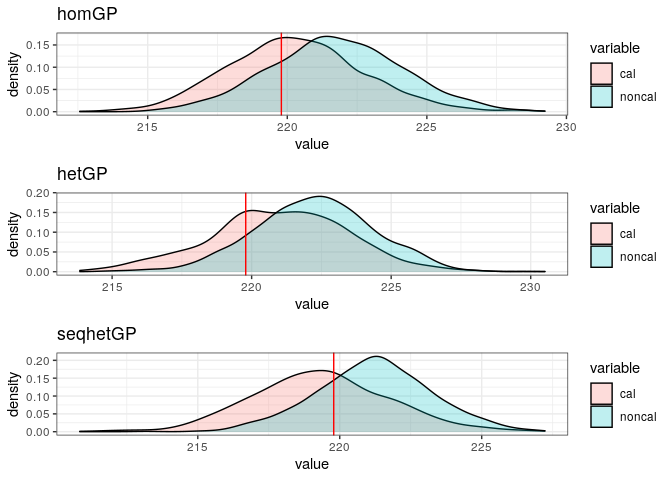
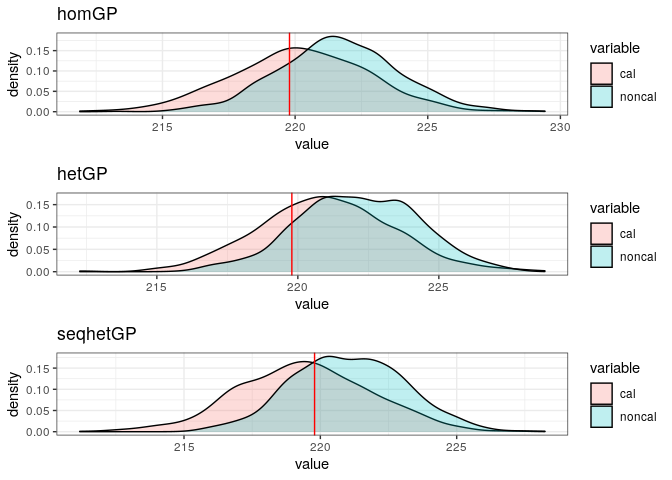
harmonization of scales in calibration plots

diff --git a/OceanCalibration.md b/OceanCalibration.md
@@ -138,10 +138,22 @@ names(dfcalhom) = c("u1","u2","s2f","s2b")
 dfcalhom[,1:2] = dfcalhom[,1:2] * 900 +100
 dfcalhom[,3] = exp(dfcalhom[,3]) * Yv
 dfcalhom[,4] = exp(dfcalhom[,4]) * Yv
-hom1 = ggplot(dfcalhom,aes(x=u1,stat(density)))+ xlab(expression(K[x])) + geom_density() + theme_bw() + xlim(50,1000) + geom_vline(aes(xintercept=700),color="red")
-hom2 = ggplot(dfcalhom,aes(x=u2,stat(density))) + xlab(expression(K[y])) + geom_density() + theme_bw() +xlim(50,1000)  + geom_vline(aes(xintercept=200),color="red")
-hom3 = ggplot(dfcalhom,aes(x=s2f,stat(density)))+ xlab(expression(sigma[epsilon]^2))  + geom_density() + theme_bw() + xlim(0,7) + geom_vline(aes(xintercept=4),color="red")
-hom4 = ggplot(dfcalhom,aes(x=s2b,stat(density)))+ xlab(expression(sigma[MD]^2)) + geom_density() + theme_bw() + xlim(0,3) +geom_vline(aes(xintercept=Yv*.02),color="red")
+hom1 = ggplot(dfcalhom,aes(x=u1,stat(density)))+ xlab(expression(K[x])) + geom_density() + theme_bw() + xlim(50,1050) + ylim(0,2e-3) + geom_vline(aes(xintercept=700),color="red")+ scale_x_continuous(breaks=c(100,500,1000),limits = c(50,1050))
+```
+
+    ## Scale for 'x' is already present. Adding another scale for 'x', which will
+    ## replace the existing scale.
+
+``` r
+hom2 = ggplot(dfcalhom,aes(x=u2,stat(density))) + xlab(expression(K[y])) + geom_density() + theme_bw() +xlim(50,1050) + ylim(0,1.2e-2) + geom_vline(aes(xintercept=200),color="red")+scale_x_continuous(breaks=c(100,500,1000),limits = c(50,1050))
+```
+
+    ## Scale for 'x' is already present. Adding another scale for 'x', which will
+    ## replace the existing scale.
+
+``` r
+hom3 = ggplot(dfcalhom,aes(x=s2f,stat(density)))+ xlab(expression(sigma[epsilon]^2))  + geom_density() + theme_bw() + xlim(0,7) + ylim(0,.6) + geom_vline(aes(xintercept=4),color="red")
+hom4 = ggplot(dfcalhom,aes(x=s2b,stat(density)))+ xlab(expression(sigma[MD]^2)) + geom_density() + theme_bw() + xlim(0,3)+ylim(0,.6)  +geom_vline(aes(xintercept=Yv*.02),color="red")
 ```
 
 Calibration with hetGP
@@ -163,10 +175,22 @@ names(dfcalhet) = c("u1","u2","s2f","s2b")
 dfcalhet[,1:2] = dfcalhet[,1:2] * 900 +100
 dfcalhet[,3] = exp(dfcalhet[,3]) * Yv
 dfcalhet[,4] = exp(dfcalhet[,4]) * Yv
-het1 = ggplot(dfcalhet,aes(x=u1,stat(density))) + xlab(expression(K[x]))+ geom_density() + theme_bw() + xlim(50,1000) + geom_vline(aes(xintercept=700),color="red")
-het2 = ggplot(dfcalhet,aes(x=u2,stat(density)))+ xlab(expression(K[y])) + geom_density() + theme_bw() +xlim(50,1000)  + geom_vline(aes(xintercept=200),color="red")
-het3 = ggplot(dfcalhet,aes(x=s2f,stat(density)))+ xlab(expression(sigma[epsilon]^2)) + geom_density() + theme_bw() + xlim(0,7) + geom_vline(aes(xintercept=4),color="red")
-het4 = ggplot(dfcalhet,aes(x=s2b,stat(density))) + xlab(expression(sigma[MD]^2)) + geom_density() + theme_bw() + xlim(0,3) +geom_vline(aes(xintercept=Yv*.02),color="red")
+het1 = ggplot(dfcalhet,aes(x=u1,stat(density))) + xlab(expression(K[x]))+ geom_density() + theme_bw() + xlim(50,1050) + ylim(0,2e-3) + geom_vline(aes(xintercept=700),color="red")+scale_x_continuous(breaks=c(100,500,1000),limits = c(50,1050))
+```
+
+    ## Scale for 'x' is already present. Adding another scale for 'x', which will
+    ## replace the existing scale.
+
+``` r
+het2 = ggplot(dfcalhet,aes(x=u2,stat(density)))+ xlab(expression(K[y])) + geom_density() + theme_bw() +xlim(50,1050) + ylim(0,1.2e-2) + geom_vline(aes(xintercept=200),color="red")+scale_x_continuous(breaks=c(100,500,1000),limits = c(50,1050))
+```
+
+    ## Scale for 'x' is already present. Adding another scale for 'x', which will
+    ## replace the existing scale.
+
+``` r
+het3 = ggplot(dfcalhet,aes(x=s2f,stat(density)))+ xlab(expression(sigma[epsilon]^2)) + geom_density() + theme_bw() + xlim(0,7) +ylim(0,.6) + geom_vline(aes(xintercept=4),color="red")
+het4 = ggplot(dfcalhet,aes(x=s2b,stat(density))) + xlab(expression(sigma[MD]^2)) + geom_density() + theme_bw() + xlim(0,3) +ylim(0,.6) +geom_vline(aes(xintercept=Yv*.02),color="red")
 ```
 
 Calibration with seqhetGP
@@ -188,10 +212,22 @@ names(dfcalseqhet) = c("u1","u2","s2f","s2b")
 dfcalseqhet[,1:2] = dfcalseqhet[,1:2] * 900 +100
 dfcalseqhet[,3] = exp(dfcalseqhet[,3]) * Yv
 dfcalseqhet[,4] = exp(dfcalseqhet[,4]) * Yv
-seqhet1 = ggplot(dfcalseqhet,aes(x=u1,stat(density))) + xlab(expression(K[x]))+ geom_density() + theme_bw() + xlim(50,1000) + geom_vline(aes(xintercept=700),color="red")
-seqhet2 = ggplot(dfcalseqhet,aes(x=u2,stat(density)))+ xlab(expression(K[y])) + geom_density() + theme_bw() +xlim(50,1000)  + geom_vline(aes(xintercept=200),color="red")
-seqhet3 = ggplot(dfcalseqhet,aes(x=s2f,stat(density))) + xlab(expression(sigma[epsilon]^2))+ geom_density() + theme_bw() + xlim(0,7) + geom_vline(aes(xintercept=4),color="red")
-seqhet4 = ggplot(dfcalseqhet,aes(x=s2b,stat(density)))+ xlab(expression(sigma[MD]^2))  + geom_density() + theme_bw() + xlim(0,3) +geom_vline(aes(xintercept=Yv*.02),color="red")
+seqhet1 = ggplot(dfcalseqhet,aes(x=u1,stat(density))) + xlab(expression(K[x]))+ geom_density() + theme_bw() + xlim(50,1050)+ ylim(0,2e-3) + geom_vline(aes(xintercept=700),color="red")+scale_x_continuous(breaks=c(100,500,1000),limits = c(50,1050))
+```
+
+    ## Scale for 'x' is already present. Adding another scale for 'x', which will
+    ## replace the existing scale.
+
+``` r
+seqhet2 = ggplot(dfcalseqhet,aes(x=u2,stat(density)))+ xlab(expression(K[y])) + geom_density() + theme_bw() +xlim(50,1050)+ ylim(0,1.2e-2)  + geom_vline(aes(xintercept=200),color="red")+scale_x_continuous(breaks=c(100,500,1000),limits = c(50,1050))
+```
+
+    ## Scale for 'x' is already present. Adding another scale for 'x', which will
+    ## replace the existing scale.
+
+``` r
+seqhet3 = ggplot(dfcalseqhet,aes(x=s2f,stat(density))) + xlab(expression(sigma[epsilon]^2))+ geom_density() + theme_bw() + xlim(0,7) + ylim(0,.6) + geom_vline(aes(xintercept=4),color="red")
+seqhet4 = ggplot(dfcalseqhet,aes(x=s2b,stat(density)))+ xlab(expression(sigma[MD]^2))  + geom_density() + theme_bw() + xlim(0,3) +ylim(0,.6) +geom_vline(aes(xintercept=Yv*.02),color="red")
 ```
 
 ``` r
@@ -548,9 +584,9 @@ rbind(c(RMSEhomnoncalL2,RMSEhomnoncalguess,RMSEhomnoncal,RMSEhomcal),
 ```
 
     ##          [,1]     [,2]     [,3]     [,4]
-    ## [1,] 9.160076 9.156535 9.221905 9.142948
-    ## [2,] 9.162898 9.158955 9.202503 9.152914
-    ## [3,] 9.153980 9.151235 9.220196 9.157108
+    ## [1,] 9.163378 9.156696 9.177092 9.154842
+    ## [2,] 9.163770 9.154720 9.168190 9.157613
+    ## [3,] 9.155518 9.159968 9.196324 9.143700
 
 ``` r
 ScorehomnoncalL2 = scoreEstDens(ZpredhomGPnoncalL2,Ztest.sim)
@@ -572,6 +608,6 @@ rbind(c(ScorehomnoncalL2,Scorehomnoncalguess,Scorehomnoncal,Scorehomcal),
 ```
 
     ##           [,1]      [,2]      [,3]      [,4]
-    ## [1,] -2.504760 -2.659344 -2.589153 -2.318591
-    ## [2,] -2.550965 -2.707471 -2.616221 -2.317339
-    ## [3,] -2.553901 -2.685036 -2.614987 -2.295303
+    ## [1,] -2.529445 -2.662632 -2.587706 -2.311792
+    ## [2,] -2.592130 -2.728044 -2.613539 -2.322778
+    ## [3,] -2.627373 -2.670469 -2.622790 -2.302823
